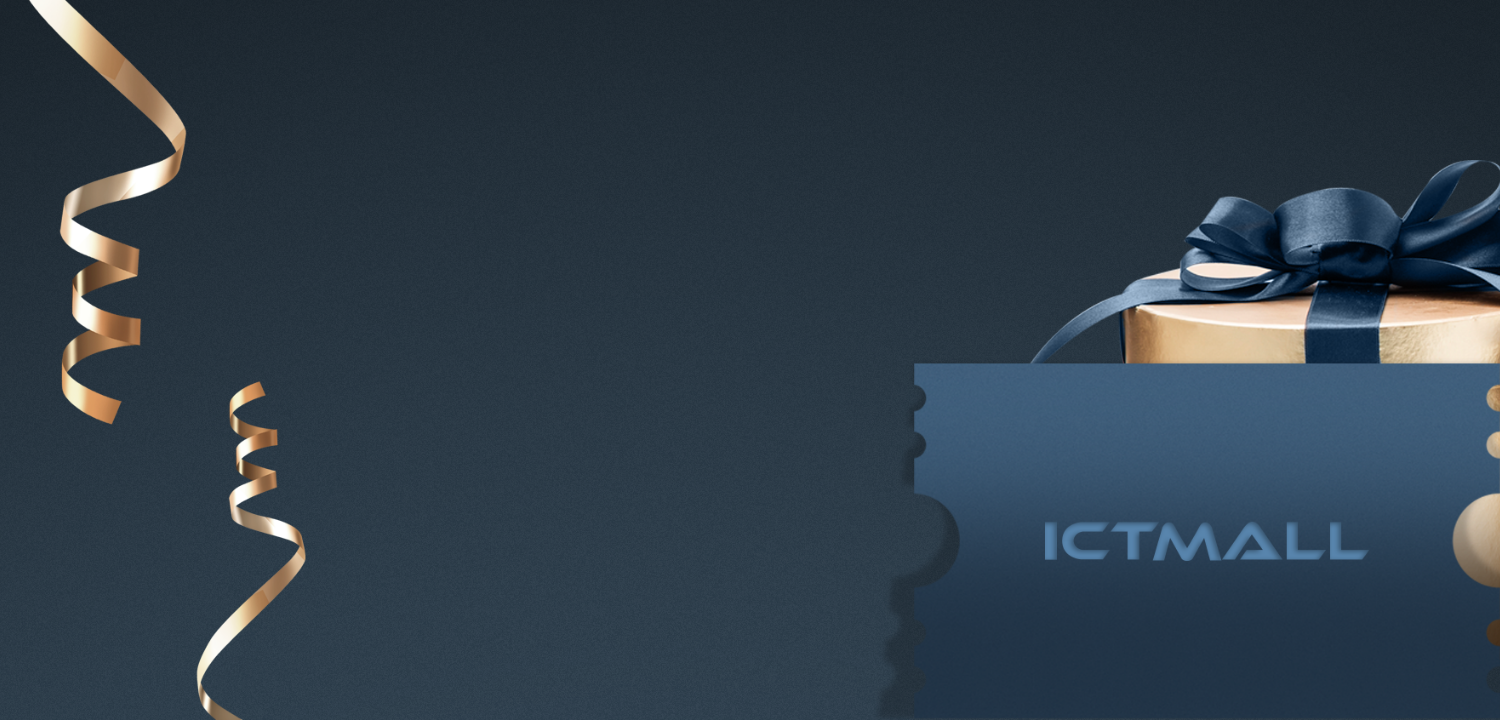
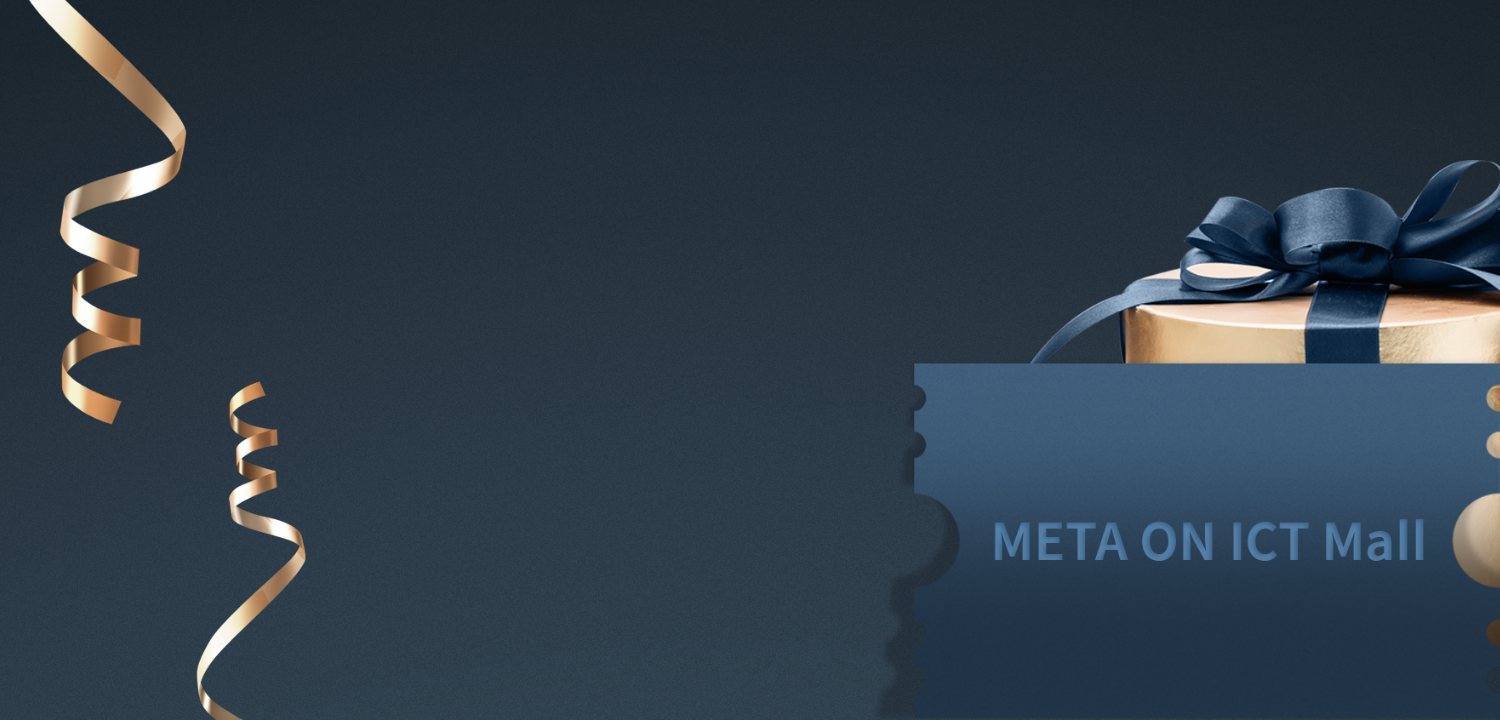
[수정] 로고 변경 및 문구수정 ICT Mall → META ON ICT Mall

Changed region(s): [[0.644, 0.7028, 0.9507, 0.7944]]

diff --git a/webapp/pub/WEB-INF/html/ict/index.html b/webapp/pub/WEB-INF/html/ict/index.html
@@ -143,7 +143,7 @@
 			<td class="date">05.12</td>
 			<td class="memo">
 				<ul class="modiList">
-					<li>00.00 수정 : </li>
+					<li>07.13 수정 : 로고 변경관련 문구수정 ICT Mall → META ON ICT Mall<span class="new">NEW</span></li>
 				</ul>
 			</td>
 			<td class="design">
@@ -330,6 +330,7 @@
 			<td class="date">05.12</td>
 			<td class="memo">
 				<ul class="modiList">
+					<li>07.13 수정 : 로고 변경관련 문구수정 ICT Mall → META ON ICT Mall<span class="new">NEW</span></li>
 					<li>06.28 수정 : 다음에 변경, 비밀번호 변경 버튼 클래스명 수정</li>
 				</ul>
 			</td>
@@ -348,6 +349,7 @@
 			<td class="memo">
 				<ul class="modiList">
 					<li>이메일발송용</li>
+					<li>07.13 수정 : 로고 변경 <span class="new">NEW</span></li>
 				</ul>
 			</td>
 			<td class="design">
@@ -365,6 +367,7 @@
 			<td class="memo">
 				<ul class="modiList">
 					<li>이메일발송용</li>
+					<li>07.13 수정 : 로고 변경 <span class="new">NEW</span></li>
 				</ul>
 			</td>
 			<td class="design">
@@ -417,7 +420,7 @@
 			<td class="date">05.12</td>
 			<td class="memo">
 				<ul class="modiList">
-					<li>07.08 수정 : 첨부파일 html 추가 <span class="new">NEW</span></li>
+					<li>07.08 수정 : 첨부파일 html 추가</li>
 					<li>06.30 수정 : 결제방식 추가</li>
 					<li>05.27 수정 : 일반회원가입, 관리자회원가입 타이틀 수정 / 직책 항목 누락분 추가 </li>
 					<li>05.14 수정 : 비밀번호입력 placeholder 내용 수정</li>
@@ -960,7 +963,7 @@
 			<td class="date">05.06</td>
 			<td class="memo">
 				<ul class="modiList">
-					<li>07.08 수정 : 첨부파일 html 추가 <span class="new">NEW</span></li>
+					<li>07.08 수정 : 첨부파일 html 추가</li>
 					<li>05.25 수정 : 파일첨부 as-is 그대로 사용으로 변경</li>
 				</ul>
 			</td>
@@ -1070,7 +1073,7 @@
 			<td class="date">06.10</td>
 			<td class="memo">
 				<ul class="modiList">
-					<li>00.00 수정 : </li>
+					<li>07.13 수정 : 로고 변경관련 문구수정 ICT Mall → META ON ICT Mall<span class="new">NEW</span></li>
 				</ul>
 			</td>
 			<td class="design"><a href="https://xd.adobe.com/view/95c82b74-61d4-47f7-9b0a-d1a0ecb61a3b-c09b/" target="_blank">디자인보기</a></td>
@@ -1116,7 +1119,7 @@
 			<td class="date">05.13</td>
 			<td class="memo">
 				<ul class="modiList">
-					<li>00.00 수정 : </li>
+					<li>07.13 수정 : 로고 변경관련 문구수정 ICT Mall → META ON ICT Mall<span class="new">NEW</span></li>
 				</ul>
 			</td>
 			<td class="design"><a href="https://xd.adobe.com/view/95c82b74-61d4-47f7-9b0a-d1a0ecb61a3b-c09b/" target="_blank">디자인보기</a></td>
@@ -1146,6 +1149,7 @@
 			<td class="date">06.10</td>
 			<td class="memo">
 				<ul class="modiList">
+					<li>07.13 수정 : 로고 변경관련 문구수정 ICT Mall → META ON ICT Mall<span class="new">NEW</span></li>
 					<li>07.08 수정 : 하단 js - class, 태그수정</li>
 					<li>07.07 수정 : [*ICTMall_리뷰및수정요청사항] 문구 수정 '베스트 100 → 인기상품'</li>
 					<li>07.05 수정 : // 주문수정 상품슬라이드 'touchRatio' 옵션 수정</li>
@@ -1380,7 +1384,8 @@
 			<td class="date">05.18</td>
 			<td class="memo">
 				<ul class="modiList">
-					<li> 수정 : 'btn-area-c'에 'btn-cont-in'class 추가</li>
+					<li>07.13 수정 : 로고 변경관련 문구수정 ICT Mall → META ON ICT Mall<span class="new">NEW</span></li>
+					<li>07.02 수정 : 'btn-area-c'에 'btn-cont-in'class 추가</li>
 					<li>06.24 수정 : tit-area → tit-area2변경</li>
 				</ul>
 			</td>
@@ -1516,7 +1521,7 @@
 			<td class="date">05.24</td>
 			<td class="memo">
 				<ul class="modiList">
-					<li>07.08 수정 : 첨부파일 html 추가 <span class="new">NEW</span></li>
+					<li>07.08 수정 : 첨부파일 html 추가</li>
 				</ul>
 			</td>
 			<td class="design"></td>
@@ -2155,7 +2160,7 @@
 			<td class="date">06.01</td>
 			<td class="memo">
 				<ul class="modiList">
-					<li>07.08 수정 : 첨부파일 html 추가 <span class="new">NEW</span></li>
+					<li>07.08 수정 : 첨부파일 html 추가</li>
 					<li>06.30 수정 : 팝업안에 팝업 관련js 수정</li>
 				</ul>
 			</td>
@@ -2171,7 +2176,7 @@
 			<td class="date">06.01</td>
 			<td class="memo">
 				<ul class="modiList">
-					<li>07.08 수정 : 첨부파일 html 추가 <span class="new">NEW</span></li>
+					<li>07.08 수정 : 첨부파일 html 추가</li>
 					<li>06.14 수정 : value 값 수정 </li>
 				</ul>
 			</td>
@@ -2187,7 +2192,7 @@
 			<td class="date">06.14</td>
 			<td class="memo">
 				<ul class="modiList">
-					<li>07.08 수정 : 첨부파일 html 추가 <span class="new">NEW</span></li>
+					<li>07.08 수정 : 첨부파일 html 추가</li>
 					<li>06.28 수정 : 추가문의 버튼 클래스명 수정</li>
 				</ul>
 			</td>
@@ -2203,7 +2208,7 @@
 			<td class="date">06.01</td>
 			<td class="memo">
 				<ul class="modiList">
-					<li>07.08 수정 : 첨부파일 html 추가 <span class="new">NEW</span></li>
+					<li>07.08 수정 : 첨부파일 html 추가</li>
 					<li>06.30 수정 : 팝업안에 팝업 관련js 수정</li>
 					<li>06.23 수정 : 닫기, 저장버튼 수정 및 추가</li>
 				</ul>
@@ -2551,7 +2556,7 @@
 			<td class="date">06.08</td>
 			<td class="memo">
 				<ul class="modiList">
-					<li>07.08 수정 : 첨부파일 html 추가 <span class="new">NEW</span></li>
+					<li>07.08 수정 : 첨부파일 html 추가</li>
 				</ul>
 			</td>
 			<td class="design"></td>
@@ -2612,7 +2617,7 @@
 			<td class="memo">
 				<ul class="modiList">
 					<li>모바일 footer없음</li>
-					<li>07.09 수정 : 장바구니 버튼명 수정 [상품일괄 업로드] → [상품 일괄 등록] / 버튼추가 [인증서 일괄 다운로드] <span class="new">NEW</span></li>
+					<li>07.09 수정 : 장바구니 버튼명 수정 [상품일괄 업로드] → [상품 일괄 등록] / 버튼추가 [인증서 일괄 다운로드]</li>
 					<li>07.05 수정 : // 주문수정 상품슬라이드 'touchRatio' 옵션 수정</li>
 					<li>06.22 수정 : [*현업 팀리뷰 수정사항] 버튼hover스타일로 인한 class변경 및 위치 수정, 주문수량 삭제버튼영역 삭제</li>
 					<li>06.17 수정 : 상품상세팝업 spaceBetween:0 수정</li>
@@ -2916,7 +2921,7 @@
 			<td class="date">05.24</td>
 			<td class="memo">
 				<ul class="modiList">
-					<li>07.08 수정 : 첨부파일 html 추가 <span class="new">NEW</span></li>
+					<li>07.08 수정 : 첨부파일 html 추가</li>
 				</ul>
 			</td>
 			<td class="design"><a href="https://xd.adobe.com/view/6ca96630-917d-4e53-a7d9-eba5aec3c738-39fa/" target="_blank">디자인보기</a></td>
@@ -3113,7 +3118,7 @@
 			<td class="date">06.02</td>
 			<td class="memo">
 				<ul class="modiList">
-					<li>07.08 수정 : 첨부파일 html 추가 <span class="new">NEW</span></li>
+					<li>07.08 수정 : 첨부파일 html 추가</li>
 					<li>06.14 수정 : lnb 카카오톡 상담하기 영역추가 </li>
 				</ul>
 			</td>
@@ -3235,7 +3240,7 @@
 			<td class="date">06.18</td>
 			<td class="memo">
 				<ul class="modiList">
-					<li>07.08 수정 : 첨부파일 html 추가 <span class="new">NEW</span></li>
+					<li>07.08 수정 : 첨부파일 html 추가</li>
 				</ul>
 			</td>
 			<td class="design"></td>
@@ -3295,7 +3300,7 @@
 			<td class="date">06.03</td>
 			<td class="memo">
 				<ul class="modiList">
-					<li>07.08 수정 : 첨부파일 html 추가 <span class="new">NEW</span></li>
+					<li>07.08 수정 : 첨부파일 html 추가</li>
 				</ul>
 			</td>
 			<td class="design"><a href="https://xd.adobe.com/view/977c4091-e61b-4588-857e-8b5ceba691b4-c22f/" target="_blank">디자인보기</a></td>

diff --git a/webapp/pub/WEB-INF/html/ict/mypage/myInfoLeave.html b/webapp/pub/WEB-INF/html/ict/mypage/myInfoLeave.html
@@ -180,17 +180,17 @@
                 <li>1) 보유하고 계신 포인트 및 쿠폰 등은 자동 소멸되며, 재가입시 복원되지 않습니다.</li>
                 <li>2) 탈퇴 후 1개월간 재가입이 불가하며, 사용하셨던 ID는 재가입/탈퇴 후 신규 가입시 사용하실 수 없습니다.</li>
                 <li>3) 그 동안 이용하셨던 이벤트를 포함한 모든 내역이 조회, 상담과 제반 서비스(교환/반품/AS)등에 일부 제한이 생길 수 있습니다.</li>
-                <li>4) ICTMALL에서 주문이력이 있으신 고객님의 정보는 회원탈퇴 이후에도 전자상거래 등에서의 소비자 보호에 관한 법률에서 정한 일정기간 동안 보존됩니다.</li>
+                <li>4) META ON ICT Mall에서 주문이력이 있으신 고객님의 정보는 회원탈퇴 이후에도 전자상거래 등에서의 소비자 보호에 관한 법률에서 정한 일정기간 동안 보존됩니다.</li>
                 <li>5) 회원탈퇴 관련 서류 필요시 고객센터(1577-1535)로 문의 바랍니다.</li>
               </ul>
               <p class="leave-tit">탈퇴사유 및 개선점(선택)</p>
               <div class="textarea-wrap count">
-                <textarea class="textarea" name="" id="" placeholder="ICTMALL에 해주고 싶은 말씀을 자유롭게 입력해주세요. (100자 이내)"></textarea>
+                <textarea class="textarea" name="" id="" placeholder="META ON ICT Mall에 해주고 싶은 말씀을 자유롭게 입력해주세요. (100자 이내)"></textarea>
                 <p class="cot"><b>0</b> / 100</p>
               </div>
             </div>
             <div class="leave-check-area">
-              <label class="check-style1"><input type="checkbox" name=""><i></i><span>회원탈퇴 유의사항을 모두 확인 하였으며, ICTMALL 회원 탈퇴에 동의합니다.</span></label>
+              <label class="check-style1"><input type="checkbox" name=""><i></i><span>회원탈퇴 유의사항을 모두 확인 하였으며, META ON ICT Mall 회원 탈퇴에 동의합니다.</span></label>
             </div>
           </div>
 

diff --git a/webapp/pub/css/member.css b/webapp/pub/css/member.css
@@ -66,11 +66,11 @@
 
 
 /* 회원가입 */               
-.join-content .member-tit{text-align: center;font-size: 34px;line-height: 4 1px;font-weight: bold;margin-top: 120px;padding:0 20px}
+.join-content .member-tit{text-align: center;font-size: 28px;font-weight: bold;margin-top: 120px;padding:0 20px}
 .join-content .member-sub-tit{text-align: center;font-size: 18px;line-height: 21px;margin-top: 30px;padding:0 20px}
 .join-content .member-sub-tit em{vertical-align: top;}
 .join-content .member-sub-tit2{text-align: center;font-size: 18px;line-height: 21px;margin-top: 30px;padding:0 60px}
-.join-content .member-tit strong{color:#346DD0;vertical-align: top;font-weight: bold;}
+.join-content .member-tit strong{color:#DC001C;vertical-align: top;font-weight: bold;}
 .join-content .member-select-box {display: flex;margin: 50px auto;width: 706px;}
 .join-content .member-select-box > div{border:1px solid #D7D7D7;text-align: center;padding:50px 0}
 .join-content .member-select-box > div p{font-size: 24px;}
@@ -82,7 +82,7 @@
 .join-content .complete-wrap .btn-full-area a{height: 48px; line-height: 46px;}
 .join-content .login-wrap{width: 360px;margin: 0 auto;padding:30px 0;}
 .join-content .login-wrap > div > p{text-align: center;font-size: 16px;line-height: 19px;margin-top: 30px;}
-.join-content .login-wrap > div > p strong{color:#346DD0;vertical-align: top;}
+.join-content .login-wrap > div > p strong{color:#DC001C;vertical-align: top; font-weight: 400;}
 .join-content .login-wrap .login-checkbox{margin: 10px 0 20px;color:#666}
 .join-content .login-wrap .login-checkbox label + label{margin-left: 30px;}
 .join-content .login-wrap .btn-area{margin-top: 10px;}
@@ -260,6 +260,7 @@
     .join-content .login-wrap.privacy > .privacy-box p::before {top: 7px;}
     .join-content .login-wrap.privacy .btn-full-area{padding:50px 0}
     .join-content .login-wrap.privacy .btn-style-l2{height:42px; line-height: 40px;}
+    .join-content .member-tit strong {font-weight:500;}
 
     .join-content .btn-full-area .btn-style-ml1,
     .join-content .btn-full-area .btn-style-ml2 {min-width:auto; height:42px; line-height: 43px;}

diff --git a/webapp/pub/css/common.css b/webapp/pub/css/common.css
@@ -20,7 +20,7 @@
 .header {width:100%; position:fixed; top:0; left:0; z-index:97; background:#fff;}
 .header .header-top {width:1200px; margin:20px auto 13px; text-align:right; font-size:13px; color:#333;}
 .header .header-cont {width:1200px; margin:0 auto 20px; position:relative;}
-.header-cont .logo {width:203px; height:24px; display:inline-block; position:absolute; top:0; left:0;}
+.header-cont .logo {width:187px; height:38px; display:inline-block; position:absolute; bottom:20px; left:0;}
 .header-cont .search-area {width:400px; height:38px; margin:0 auto; position:relative; border-bottom:2px solid #000;}
 .header-cont .search-area .inp-area {width:100%; padding:5px 65px 7px 0; position:relative; font-size:16px;}
 .inp-area .inp {width:100%; font-size:16px;}
@@ -1207,7 +1207,9 @@ textarea + .cot b {vertical-align: top;}
     .header-top {display:none;}
     .header .header-cont {width:100%; margin:0; padding:54px 20px 20px;}
     .header-cont .search-area {width:100%; height:36px;}
-    .header-cont .logo {width:153px; top:26px; left:20px;}
+    .header-cont .logo {width:136px; height:36px; bottom:inherit; top:16px; left:20px;}
+    .header-cont .logo img {display:none;}
+    .header-cont .logo > a::before {content:''; width:136px; height:36px; display: inline-block; background: url(../images/layout/mo_logo_ictmall.png) 0 0 no-repeat; background-size: 136px auto;}
     .header-cont .right-area {top:20px; right:20px;}
     .header-cont .right-area .icon-btn {width:24px; height:24px;}
     .header-cont .right-area .icon-btn > a {width: 24px; height: 24px;}

diff --git a/webapp/pub/WEB-INF/html/ict/member/login.html b/webapp/pub/WEB-INF/html/ict/member/login.html
@@ -167,7 +167,7 @@
     </header>
     <section class="container">
       <div class="sub-content join-content">
-        <p class="member-tit"><strong>ICT</strong>MALL 로그인</p>
+        <p class="member-tit">META <strong>ON</strong> ICT Mall 로그인</p>
         <div class="login-wrap">
           <div>
             <div class="form-area">
@@ -187,7 +187,7 @@
               <a href="#">아이디 찾기</a>
               <a href="#">비밀번호 찾기</a>
             </div>
-            <p>아직<strong>ICT</strong>회원이 아니신가요?</p>
+            <p>아직 META <strong>ON</strong> ICT Mall 회원이 아니신가요?</p>
             <div class="btn-area">
               <a href="#" class="btn btn-style-l5">회원가입</a>
             </div>

diff --git a/webapp/pub/WEB-INF/html/ict/member/login_privacy.html b/webapp/pub/WEB-INF/html/ict/member/login_privacy.html
@@ -167,7 +167,7 @@
     </header>
     <section class="container">
       <div class="sub-content join-content">
-        <p class="member-tit"><strong>IC</strong>TMALL 개인정보보호 안내</p>
+        <p class="member-tit">META <strong>ON</strong> ICT Mall <br class="pc-hide">개인정보보호 안내</p>
         <p class="member-sub-tit">고객님, 비밀번호 변경으로 <em>소중한 개인정보를 지켜주세요!</em></p>
         <div class="login-wrap privacy">
           <p>고객님은 3개월 동안 비밀번호를 <em>변경하지 않으셨습니다.</em></p>

diff --git a/webapp/pub/WEB-INF/html/ict/promotion/promotion.html b/webapp/pub/WEB-INF/html/ict/promotion/promotion.html
@@ -172,7 +172,7 @@
           <img src="../../../../images/product/mo_img_promotion_banner.png" class="pc-hide" alt="프로모션 상단 mobile배너">
           <div class="ban-text-area">
             <p class="ban-tit">이벤트/프로모션</p>
-            <p class="ban-p">ICTmall에서 준비한<br class="pc-hide" /> 다양한 이벤트를 확인해보세요.</p>
+            <p class="ban-p">META ON ICT Mall에서 준비한<br class="pc-hide" /> 다양한 이벤트를 확인해보세요.</p>
           </div>
         </div>
 

diff --git a/webapp/pub/WEB-INF/html/ict/promotion/best.html b/webapp/pub/WEB-INF/html/ict/promotion/best.html
@@ -172,7 +172,7 @@
           <img src="../../../../images/product/mo_img_best_banner.png" class="pc-hide" alt="베스트100 상단 mobile배너">
           <div class="ban-text-area">
             <p class="ban-tit">인기상품</p>
-            <p class="ban-p">ICTMALL에서 가장<br class="pc-hide"/> 인기있는 상품을 만나보세요.</p>
+            <p class="ban-p">META ON ICT Mall에서 가장<br class="pc-hide"/> 인기있는 상품을 만나보세요.</p>
           </div>
         </div>
 

diff --git a/webapp/pub/WEB-INF/html/ict/mail/login_mail.html b/webapp/pub/WEB-INF/html/ict/mail/login_mail.html
@@ -51,7 +51,7 @@
 			<table style="width:100%; overflow:hidden; table-layout:fixed; border-collapse:collapse; border-spacing:0;">
 				<thead>
 					<tr>
-						<td style="padding-bottom: 10px;"><img src="../../../../images/layout/logo_ictmall.png" alt="ICTMALL" style="width: 137px;"></td>
+						<td style="padding-bottom: 10px;"><img src="../../../../images/layout/emall_logo_ictmall.png" alt="ICTMALL" style="width: 140px;"></td>
 					</tr>
 				</thead>
 				<tbody>

diff --git a/webapp/pub/WEB-INF/html/ict/mail/login_mail2.html b/webapp/pub/WEB-INF/html/ict/mail/login_mail2.html
@@ -51,7 +51,7 @@
 			<table style="width:100%; overflow:hidden; table-layout:fixed; border-collapse:collapse; border-spacing:0;">
 				<thead>
 					<tr>
-						<td style="padding-bottom: 10px;"><img src="../../../../images/layout/logo_ictmall.png" alt="ICTMALL" style="width: 137px;"></td>
+						<td style="padding-bottom: 10px;"><img src="../../../../images/layout/emall_logo_ictmall.png" alt="ICTMALL" style="width: 140px;"></td>
 					</tr>
 				</thead>
 				<tbody>

diff --git a/webapp/pub/WEB-INF/html/ict/promotion/special.html b/webapp/pub/WEB-INF/html/ict/promotion/special.html
@@ -172,7 +172,7 @@
           <img src="../../../../images/product/mo_img_special_banner.png" class="pc-hide" alt="기획전 상단 mobile배너">
           <div class="ban-text-area">
             <p class="ban-tit">기획전</p>
-            <p class="ban-p">ICTMALL만의 매력적인 기획전 모음</p>
+            <p class="ban-p">META ON ICT Mall만의 <br class="pc-hide">매력적인 기획전 모음</p>
           </div>
         </div>
 
